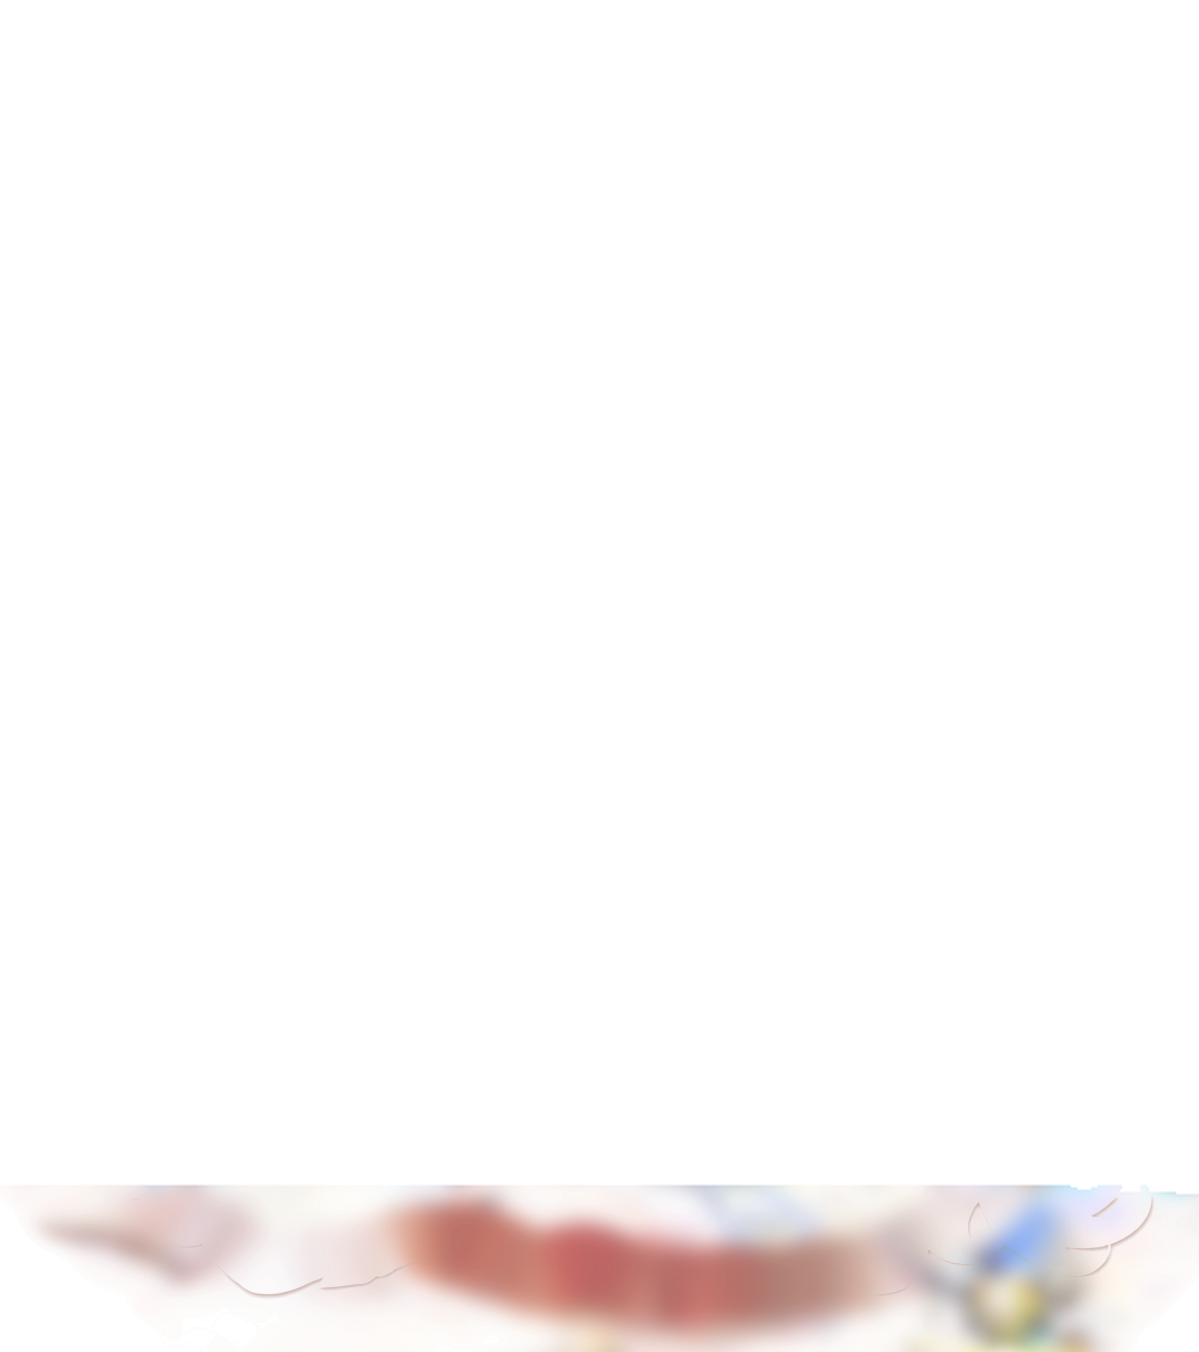
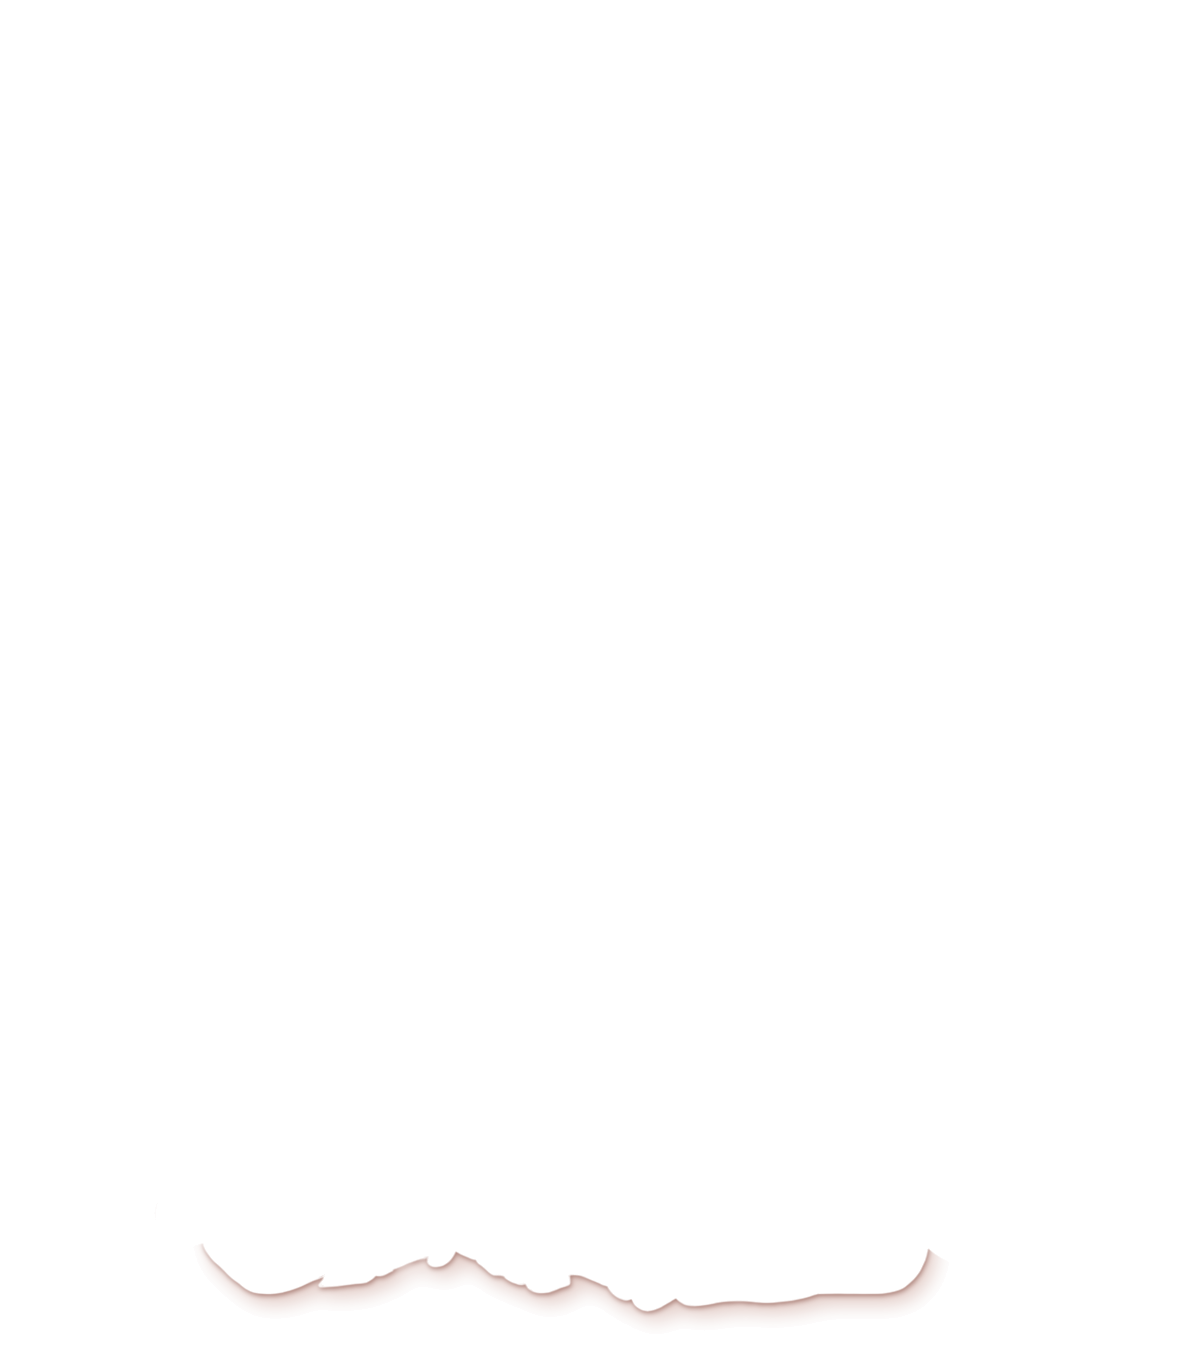
桌面阴影按 relit3 轮廓生成（颜色取自 GPT），去掉肘部左侧的灰块

Changed region(s): [[0.0309, 0.8698, 0.9566, 1.0], [0.9566, 0.8698, 0.9875, 0.9009]]

diff --git a/tools/char_layers.py b/tools/char_layers.py
@@ -42,6 +42,7 @@ SHADOW_MAX = 0.75
 # 贴边窄阴影的颜色（乘色）：取自 GPT round18 手肘下的接触阴影（约 (151,119,106) → (113,76,67)），略浅一点；
 # 四个表情用同一个，切换时贴边阴影深浅一致（各张实测的中位数差很多，不用）
 CONTACT_TINT = (0.80, 0.70, 0.68)
+BROAD_TINT = (0.90, 0.82, 0.80)     # 右下柔和阴影的乘色（GPT 大面积阴影的平均深浅）
 THUMB_BOX = tuple(v * S for v in (34, 77, 944, 987))   # 头部框，和以前合成图缩略图的框是同一处
 FRONT_BOX = (634, 330, 760, 615)  # 羽毛笔和墨水瓶所在范围（合成图坐标）
 # 墨水瓶轮廓和插进瓶口的那段笔杆（书桌原图 1405 宽坐标；固定书桌不变，所以用固定多边形）。
@@ -80,18 +81,23 @@ def char_layer(src, shade=True, gpt=None):
         a[..., 3] *= 1 - side * ramp
     if not shade:   # 给 GPT 的输入图：不加我们的阴影
         return Image.fromarray(np.clip(a, 0, 255).astype('uint8')), None
-    if gpt is not None:   # 阴影取自 GPT（第二步 round18）
-        fig, f, tint = gpt
+    if gpt is not None:   # 第二步：人物贴桌部分的明暗取自 GPT（round18），桌面阴影的形状按 relit3 轮廓生成
+        fig = gpt[0]
         a[..., :3] *= fig
-        # 贴边的窄阴影：沿高清人物轮廓（桌沿以下）往右下偏一点、模糊 2.5px，颜色用 GPT 接触处的颜色；
-        # 和 GPT 的大面积阴影取较深的一个（不叠加），边缘和袖子严丝合缝
+        # 桌面阴影不再用 GPT 的比值：GPT 把头发、书页画得和 relit3 不一样，这些差别会变成灰色色块（用户发现两次）。
+        # 改为以 relit3 为准：只用桌沿以下、不是头发的部分（手臂、手、袖子）的轮廓，生成贴边窄阴影 + 右下柔和阴影，
+        # 颜色取 GPT 手肘下接触阴影的颜色（CONTACT_TINT / BROAD_TINT，四个表情一致）。
         al = a[..., 3] / 255
-        low_body = ((al > 0.5) & low).astype(float)
-        c = ndimage.gaussian_filter(ndimage.shift(low_body, (2 * S, 1 * S), order=0), 2.5 * S) * (1 - al) * low
-        c = np.asarray(Image.fromarray((np.clip(c, 0, 1) * 255).astype('uint8')).resize((W // S, (H + PAD) // S),
-                                                                                       Image.LANCZOS)) / 255
-        f = np.minimum(f, 1 - np.clip(c * 1.3, 0, 1)[..., None] * (1 - np.asarray(CONTACT_TINT)))
-        f[f.min(-1) > 0.985] = 1                           # 压暗不到 1.5% 的极淡部分去掉，免得留下浅色方块
+        body = ((al > 0.5) & low & ~hair).astype(float)
+        out = (1 - al) * low
+        def soft(dy, dx, sigma):
+            m = ndimage.gaussian_filter(ndimage.shift(body, (dy * S, dx * S), order=0), sigma * S) * out
+            return np.asarray(Image.fromarray((np.clip(m, 0, 1) * 255).astype('uint8')).resize(
+                (W // S, (H + PAD) // S), Image.LANCZOS)) / 255
+        c = np.clip(soft(2, 1, 2.5) * 1.3, 0, 1)[..., None]
+        w = np.clip(soft(10, 7, 10) * 1.2, 0, 1)[..., None]
+        f = (1 - c * (1 - np.asarray(CONTACT_TINT))) * (1 - w * (1 - np.asarray(BROAD_TINT)))
+        f[f.min(-1) > 0.985] = 1
         sa = 1 - f.min(-1)                                 # 正片叠底：底色 × (1 − a + a × col) = 底色 × f
         col = 1 - (1 - f) / np.maximum(sa[..., None], 1e-3)
         shadow = np.zeros(f.shape[:2] + (4,))
@@ -258,7 +264,10 @@ def gpt_shading(gpt_path, inp_path, mask_path):
     desk = (I[..., 3] > 200) & (yy >= edge - 3)
     rd = np.clip(blur(G, 1.2) / np.maximum(blur(I, 1.2), 8), 0.4, 1)
     # 紧贴人物轮廓 4px 内同样对不严：用外侧的阴影值往里填，一直填到人物下面，否则袖子下沿会露出一道没压暗的亮线（用户发现）
-    valid = desk & ~ndimage.binary_dilation(m, iterations=4)
+    # 以 relit3 人物为准：GPT 画头发的地方（比输入图明显偏蓝）不是阴影，是它把头发画到了别处，不能当阴影用
+    gpt_hair = ((G[..., 2] - G[..., 0]) - (I[..., 2] - I[..., 0]) > 25) | ((G[..., 2] - G[..., 0] > 40) & (G[..., 2] > 110))
+    gpt_hair = ndimage.binary_dilation(gpt_hair, iterations=3)
+    valid = desk & ~ndimage.binary_dilation(m, iterations=4) & ~gpt_hair
     rd = fill_from(rd, valid, desk)
     # 接触处的颜色：人物轮廓外 5–9px 那一圈的中位数（交给 char_layer 做贴边的那条窄阴影）
     band = valid & ndimage.binary_dilation(m, iterations=9) & (yy >= edge + 5)
@@ -266,7 +275,11 @@ def gpt_shading(gpt_path, inp_path, mask_path):
     # 大面积的阴影只要形状和颜色：再模糊 5px，去掉 GPT 重画木纹带来的斑驳（用户发现过渡不均）
     rd = np.stack([ndimage.gaussian_filter(rd[..., c], 5) for c in range(3)], -1)
     rd[~desk] = 1
-    near = ndimage.gaussian_filter(ndimage.binary_dilation(m, iterations=45).astype(float), 4)[..., None]
+    # 阴影只留在 relit3 人物压在桌上的部分（桌沿以下、不是头发）附近 30px 内；别处 GPT 的差异（头发、重画的书页）不要
+    Ir, Ig, Ib = I[..., 0], I[..., 1], I[..., 2]
+    inp_hair = (Ib - Ir > 40) & (Ib > 110)
+    body_low = m & ~inp_hair & (yy >= edge)
+    near = ndimage.gaussian_filter(ndimage.binary_dilation(body_low, iterations=30).astype(float), 5)[..., None]
     rd = 1 - near * (1 - rd)
     # 换到立绘坐标：输入图 (X, Y) = (FIG_X + 250, FIG_Y + CANVAS_DY) + FIG_K × 立绘坐标
     def to_portrait(f, scale):

diff --git a/docs/修改记录.md b/docs/修改记录.md
@@ -209,6 +209,13 @@ osascript -e 'quit app "DeepSeek Harness"' && open -a "DeepSeek Harness"
 
 ## 五、版本记录
 
+### 2026-10-04 · 桌面阴影改为按 relit3 轮廓生成，去掉肘部左侧的灰块
+
+- 备份：`backup/阴影只留接触区前-20261004-120902`。
+- 用户发现：好奇表情左手肘左侧、后面那本书上还有一块灰（在陪伴栏内，不是上一条那块）。原因：桌面阴影用的是 GPT 和输入图的比值，GPT 把左边的头发、书页画得和 relit3 不一样，这些差别被当成了阴影；先试了排除 GPT 头发、只留接触区附近，灰块仍在。
+- 按用户建议以 relit3 为准：桌面阴影不再用 GPT 的比值，改为按 relit3 人物桌沿以下、不是头发的部分（手臂、手、袖子）的轮廓生成——贴边窄阴影（偏移 (1,2)、模糊 2.5px、`CONTACT_TINT` (0.80,0.70,0.68)）× 右下柔和阴影（偏移 (7,10)、模糊 10px、`BROAD_TINT` (0.90,0.82,0.80)），颜色取自 GPT 手肘下的接触阴影，四个表情一致。人物身上贴桌部分的明暗仍取自 GPT（round18）。
+- 验证：build + verify 72/72，包体 6.76 MB；调试端口截图默认、好奇、眨眼，书上没有灰块，袖子和手下面是暖色阴影。截图 `/Volumes/LQ1000/陪伴栏-阴影按轮廓-好奇.png`（本机）。
+
 ### 2026-10-04 · 桌面阴影层截到陪伴栏内，去掉对话框上的灰块
 
 - 备份：`backup/阴影层裁到栏内前-20261004-115935`。
